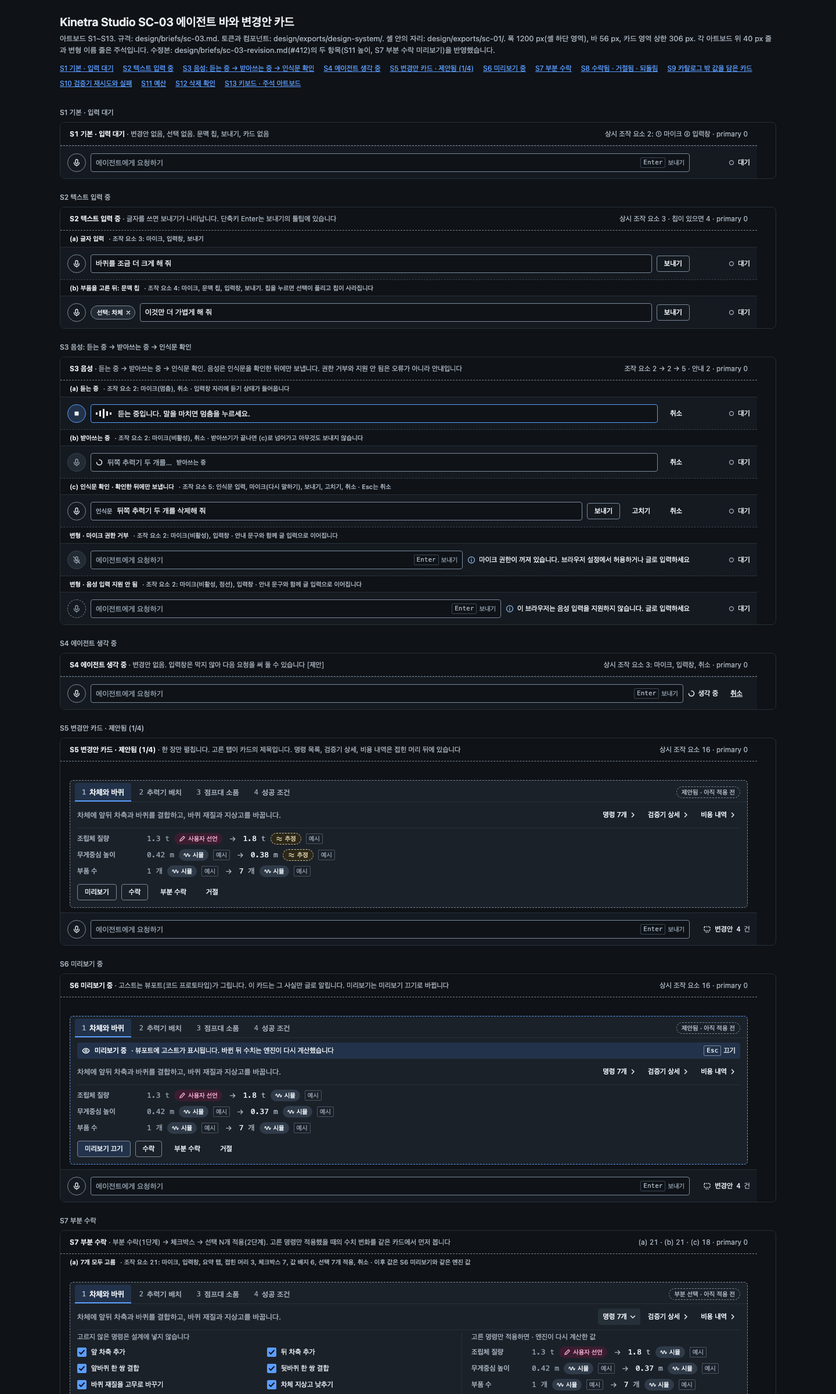
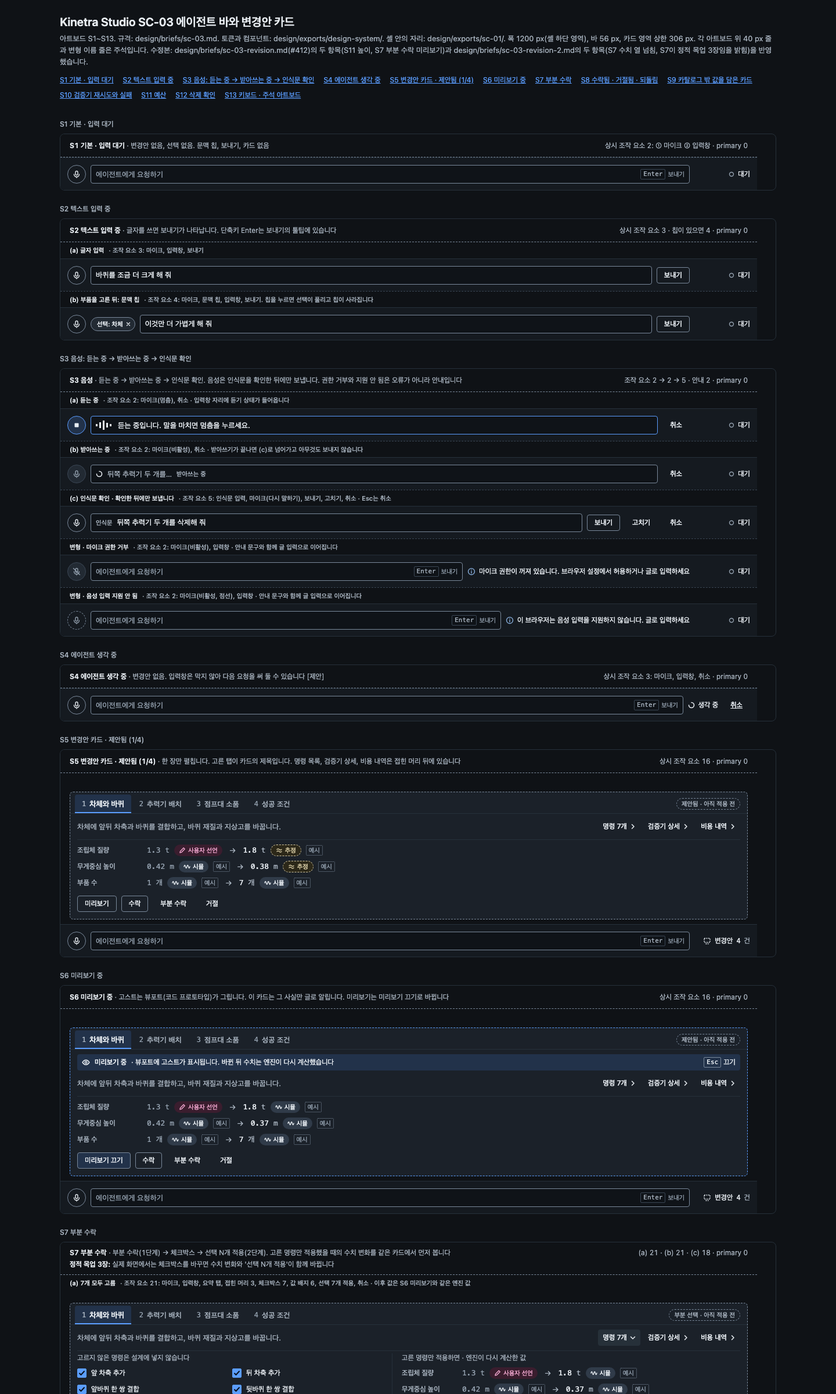
[D0-03c] SC-03 수정 2회 디자인 반영

diff --git a/design/exports/sc-03/index.html b/design/exports/sc-03/index.html
@@ -27,7 +27,7 @@ a{color:#5B9DFF}a:hover{color:#A8CBFF}
 <body>
 <header class="kin-top">
 <h1>Kinetra Studio SC-03 에이전트 바와 변경안 카드</h1>
-<p>아트보드 S1~S13. 규격: design/briefs/sc-03.md. 토큰과 컴포넌트: design/exports/design-system/. 셸 안의 자리: design/exports/sc-01/. 폭 1200 px(셸 하단 영역), 바 56 px, 카드 영역 상한 306 px. 각 아트보드 위 40 px 줄과 변형 이름 줄은 주석입니다. 수정본: design/briefs/sc-03-revision.md(#412)의 두 항목(S11 높이, S7 부분 수락 미리보기)을 반영했습니다.</p>
+<p>아트보드 S1~S13. 규격: design/briefs/sc-03.md. 토큰과 컴포넌트: design/exports/design-system/. 셸 안의 자리: design/exports/sc-01/. 폭 1200 px(셸 하단 영역), 바 56 px, 카드 영역 상한 306 px. 각 아트보드 위 40 px 줄과 변형 이름 줄은 주석입니다. 수정본: design/briefs/sc-03-revision.md(#412)의 두 항목(S11 높이, S7 부분 수락 미리보기)과 design/briefs/sc-03-revision-2.md의 두 항목(S7 수치 열 넘침, S7이 정적 목업 3장임을 밝힘)을 반영했습니다.</p>
 <nav class="kin-nav" aria-label="아트보드 목차"><a href="#main">S1 기본 · 입력 대기</a><a href="#s2">S2 텍스트 입력 중</a><a href="#s3">S3 음성: 듣는 중 → 받아쓰는 중 → 인식문 확인</a><a href="#s4">S4 에이전트 생각 중</a><a href="#s5">S5 변경안 카드 · 제안됨 (1/4)</a><a href="#s6">S6 미리보기 중</a><a href="#s7">S7 부분 수락</a><a href="#s8">S8 수락됨 · 거절됨 · 되돌림</a><a href="#s9">S9 카탈로그 밖 값을 담은 카드</a><a href="#s10">S10 검증기 재시도와 실패</a><a href="#s11">S11 예산</a><a href="#s12">S12 삭제 확인</a><a href="#s13">S13 키보드 · 주석 아트보드</a></nav>
 </header>
 <main><section class="kin-board" id="main" aria-label="S1 기본 · 입력 대기"><h2 class="kin-board-title">S1 기본 · 입력 대기</h2><div class="kin-board-scroll" tabindex="0" role="group" aria-label="S1 기본 · 입력 대기 아트보드"><div data-board="Main.dc.html" style="width:1200px;height:96px;box-sizing:border-box;background:#0F1216;color:#E8EDF2;font-family:Pretendard,'Pretendard Variable',-apple-system,BlinkMacSystemFont,'Apple SD Gothic Neo','Malgun Gothic','Noto Sans KR',sans-serif;font-size:13px;line-height:20px;font-variant-numeric:tabular-nums;display:flex;flex-direction:column">
@@ -324,9 +324,9 @@ a{color:#5B9DFF}a:hover{color:#A8CBFF}
 
 </div>
 
-</div></div></section><section class="kin-board" id="s7" aria-label="S7 부분 수락"><h2 class="kin-board-title">S7 부분 수락</h2><div class="kin-board-scroll" tabindex="0" role="group" aria-label="S7 부분 수락 아트보드"><div data-board="S7.dc.html" style="width:1200px;height:1180px;box-sizing:border-box;background:#0F1216;color:#E8EDF2;font-family:Pretendard,'Pretendard Variable',-apple-system,BlinkMacSystemFont,'Apple SD Gothic Neo','Malgun Gothic','Noto Sans KR',sans-serif;font-size:13px;line-height:20px;font-variant-numeric:tabular-nums;display:flex;flex-direction:column">
+</div></div></section><section class="kin-board" id="s7" aria-label="S7 부분 수락"><h2 class="kin-board-title">S7 부분 수락</h2><div class="kin-board-scroll" tabindex="0" role="group" aria-label="S7 부분 수락 아트보드"><div data-board="S7.dc.html" style="width:1200px;height:1196px;box-sizing:border-box;background:#0F1216;color:#E8EDF2;font-family:Pretendard,'Pretendard Variable',-apple-system,BlinkMacSystemFont,'Apple SD Gothic Neo','Malgun Gothic','Noto Sans KR',sans-serif;font-size:13px;line-height:20px;font-variant-numeric:tabular-nums;display:flex;flex-direction:column">
 
-<div data-note="1" style="flex:none;height:40px;box-sizing:border-box;display:flex;align-items:center;justify-content:space-between;gap:16px;padding:0 16px;border-bottom:1px dashed #7A899B;font-size:12px;line-height:16px;color:#A9B4C0"><span><strong style="color:#E8EDF2;font-weight:600">S7 부분 수락</strong> · 부분 수락(1단계) → 체크박스 → 선택 N개 적용(2단계). 고른 명령만 적용했을 때의 수치 변화를 같은 카드에서 먼저 봅니다</span><span>(a) 21 · (b) 21 · (c) 18 · primary 0</span></div>
+<div data-note="1" style="flex:none;height:56px;box-sizing:border-box;display:flex;flex-direction:column;justify-content:center;gap:4px;padding:0 16px;border-bottom:1px dashed #7A899B;font-size:12px;line-height:16px;color:#A9B4C0"><div style="display:flex;align-items:center;justify-content:space-between;gap:16px"><span><strong style="color:#E8EDF2;font-weight:600">S7 부분 수락</strong> · 부분 수락(1단계) → 체크박스 → 선택 N개 적용(2단계). 고른 명령만 적용했을 때의 수치 변화를 같은 카드에서 먼저 봅니다</span><span>(a) 21 · (b) 21 · (c) 18 · primary 0</span></div><div data-static-note="1"><strong style="color:#E8EDF2;font-weight:600">정적 목업 3장:</strong> 실제 화면에서는 체크박스를 바꾸면 수치 변화와 '선택 N개 적용'이 함께 바뀝니다</div></div>
 
 <div data-note="1" style="flex:none;height:28px;box-sizing:border-box;display:flex;align-items:center;gap:8px;padding:0 16px;font-size:11px;line-height:16px;font-weight:500;color:#A9B4C0"><span style="color:#E8EDF2">(a) 7개 모두 고름</span><span>· 조작 요소 21: 마이크, 입력창, 요약 탭, 접힌 머리 3, 체크박스 7, 값 배지 6, 선택 7개 적용, 취소 · 이후 값은 S6 미리보기와 같은 엔진 값</span></div>
 <div data-screen="S7a" style="position:relative;flex:none;height:352px;display:flex;flex-direction:column">
@@ -364,7 +364,7 @@ a{color:#5B9DFF}a:hover{color:#A8CBFF}
 </div>
 </div>
 
-<div style="display:grid;grid-template-columns:minmax(0,1fr) 480px;gap:0 24px;border-top:1px solid #26303A;padding-top:4px">
+<div style="display:grid;grid-template-columns:minmax(0,1fr) 600px;gap:0 24px;border-top:1px solid #26303A;padding-top:4px">
 <fieldset id="s7a-cmds" style="margin:0;padding:0;border:0;min-width:0">
 <legend style="float:left;width:100%;padding:0;margin:0 0 4px;font-size:12px;line-height:16px;color:#A9B4C0">고르지 않은 명령은 설계에 넣지 않습니다</legend>
 <div style="clear:both;display:grid;grid-template-columns:repeat(2,minmax(0,1fr));gap:0 16px">
@@ -459,7 +459,7 @@ a{color:#5B9DFF}a:hover{color:#A8CBFF}
 </div>
 </div>
 
-<div style="display:grid;grid-template-columns:minmax(0,1fr) 480px;gap:0 24px;border-top:1px solid #26303A;padding-top:4px">
+<div style="display:grid;grid-template-columns:minmax(0,1fr) 600px;gap:0 24px;border-top:1px solid #26303A;padding-top:4px">
 <fieldset id="s7b-cmds" style="margin:0;padding:0;border:0;min-width:0">
 <legend style="float:left;width:100%;padding:0;margin:0 0 4px;font-size:12px;line-height:16px;color:#A9B4C0">고르지 않은 명령은 설계에 넣지 않습니다</legend>
 <div style="clear:both;display:grid;grid-template-columns:repeat(2,minmax(0,1fr));gap:0 16px">
@@ -554,7 +554,7 @@ a{color:#5B9DFF}a:hover{color:#A8CBFF}
 </div>
 </div>
 
-<div style="display:grid;grid-template-columns:minmax(0,1fr) 480px;gap:0 24px;border-top:1px solid #26303A;padding-top:4px">
+<div style="display:grid;grid-template-columns:minmax(0,1fr) 600px;gap:0 24px;border-top:1px solid #26303A;padding-top:4px">
 <fieldset id="s7c-cmds" style="margin:0;padding:0;border:0;min-width:0">
 <legend style="float:left;width:100%;padding:0;margin:0 0 4px;font-size:12px;line-height:16px;color:#A9B4C0">고르지 않은 명령은 설계에 넣지 않습니다</legend>
 <div style="clear:both;display:grid;grid-template-columns:repeat(2,minmax(0,1fr));gap:0 16px">

diff --git a/design/exports/sc-03/source/S7.dc.html b/design/exports/sc-03/source/S7.dc.html
@@ -18,9 +18,9 @@ input::placeholder{color:#93A0AE;opacity:1}
 @media (prefers-reduced-motion:reduce){*{transition-property:opacity!important;animation:none!important}}
 </style>
 </helmet>
-<div style="width:1200px;height:1180px;box-sizing:border-box;background:#0F1216;color:#E8EDF2;font-family:Pretendard,'Pretendard Variable',-apple-system,BlinkMacSystemFont,'Apple SD Gothic Neo','Malgun Gothic','Noto Sans KR',sans-serif;font-size:13px;line-height:20px;font-variant-numeric:tabular-nums;display:flex;flex-direction:column">
+<div style="width:1200px;height:1196px;box-sizing:border-box;background:#0F1216;color:#E8EDF2;font-family:Pretendard,'Pretendard Variable',-apple-system,BlinkMacSystemFont,'Apple SD Gothic Neo','Malgun Gothic','Noto Sans KR',sans-serif;font-size:13px;line-height:20px;font-variant-numeric:tabular-nums;display:flex;flex-direction:column">
 
-<div data-note="1" style="flex:none;height:40px;box-sizing:border-box;display:flex;align-items:center;justify-content:space-between;gap:16px;padding:0 16px;border-bottom:1px dashed #7A899B;font-size:12px;line-height:16px;color:#A9B4C0"><span><strong style="color:#E8EDF2;font-weight:600">S7 부분 수락</strong> · 부분 수락(1단계) → 체크박스 → 선택 N개 적용(2단계). 고른 명령만 적용했을 때의 수치 변화를 같은 카드에서 먼저 봅니다</span><span>(a) 21 · (b) 21 · (c) 18 · primary 0</span></div>
+<div data-note="1" style="flex:none;height:56px;box-sizing:border-box;display:flex;flex-direction:column;justify-content:center;gap:4px;padding:0 16px;border-bottom:1px dashed #7A899B;font-size:12px;line-height:16px;color:#A9B4C0"><div style="display:flex;align-items:center;justify-content:space-between;gap:16px"><span><strong style="color:#E8EDF2;font-weight:600">S7 부분 수락</strong> · 부분 수락(1단계) → 체크박스 → 선택 N개 적용(2단계). 고른 명령만 적용했을 때의 수치 변화를 같은 카드에서 먼저 봅니다</span><span>(a) 21 · (b) 21 · (c) 18 · primary 0</span></div><div data-static-note="1"><strong style="color:#E8EDF2;font-weight:600">정적 목업 3장:</strong> 실제 화면에서는 체크박스를 바꾸면 수치 변화와 '선택 N개 적용'이 함께 바뀝니다</div></div>
 
 <div data-note="1" style="flex:none;height:28px;box-sizing:border-box;display:flex;align-items:center;gap:8px;padding:0 16px;font-size:11px;line-height:16px;font-weight:500;color:#A9B4C0"><span style="color:#E8EDF2">(a) 7개 모두 고름</span><span>· 조작 요소 21: 마이크, 입력창, 요약 탭, 접힌 머리 3, 체크박스 7, 값 배지 6, 선택 7개 적용, 취소 · 이후 값은 S6 미리보기와 같은 엔진 값</span></div>
 <div data-screen="S7a" style="position:relative;flex:none;height:352px;display:flex;flex-direction:column">
@@ -58,7 +58,7 @@ input::placeholder{color:#93A0AE;opacity:1}
 </div>
 </div>
 
-<div style="display:grid;grid-template-columns:minmax(0,1fr) 480px;gap:0 24px;border-top:1px solid #26303A;padding-top:4px">
+<div style="display:grid;grid-template-columns:minmax(0,1fr) 600px;gap:0 24px;border-top:1px solid #26303A;padding-top:4px">
 <fieldset id="s7a-cmds" style="margin:0;padding:0;border:0;min-width:0">
 <legend style="float:left;width:100%;padding:0;margin:0 0 4px;font-size:12px;line-height:16px;color:#A9B4C0">고르지 않은 명령은 설계에 넣지 않습니다</legend>
 <div style="clear:both;display:grid;grid-template-columns:repeat(2,minmax(0,1fr));gap:0 16px">
@@ -153,7 +153,7 @@ input::placeholder{color:#93A0AE;opacity:1}
 </div>
 </div>
 
-<div style="display:grid;grid-template-columns:minmax(0,1fr) 480px;gap:0 24px;border-top:1px solid #26303A;padding-top:4px">
+<div style="display:grid;grid-template-columns:minmax(0,1fr) 600px;gap:0 24px;border-top:1px solid #26303A;padding-top:4px">
 <fieldset id="s7b-cmds" style="margin:0;padding:0;border:0;min-width:0">
 <legend style="float:left;width:100%;padding:0;margin:0 0 4px;font-size:12px;line-height:16px;color:#A9B4C0">고르지 않은 명령은 설계에 넣지 않습니다</legend>
 <div style="clear:both;display:grid;grid-template-columns:repeat(2,minmax(0,1fr));gap:0 16px">
@@ -248,7 +248,7 @@ input::placeholder{color:#93A0AE;opacity:1}
 </div>
 </div>
 
-<div style="display:grid;grid-template-columns:minmax(0,1fr) 480px;gap:0 24px;border-top:1px solid #26303A;padding-top:4px">
+<div style="display:grid;grid-template-columns:minmax(0,1fr) 600px;gap:0 24px;border-top:1px solid #26303A;padding-top:4px">
 <fieldset id="s7c-cmds" style="margin:0;padding:0;border:0;min-width:0">
 <legend style="float:left;width:100%;padding:0;margin:0 0 4px;font-size:12px;line-height:16px;color:#A9B4C0">고르지 않은 명령은 설계에 넣지 않습니다</legend>
 <div style="clear:both;display:grid;grid-template-columns:repeat(2,minmax(0,1fr));gap:0 16px">
@@ -304,7 +304,7 @@ input::placeholder{color:#93A0AE;opacity:1}
 
 </div>
 </x-dc>
-<script type="text/x-dc" data-dc-script data-props='{"$preview":{"width":1200,"height":1180}}'>
+<script type="text/x-dc" data-dc-script data-props='{"$preview":{"width":1200,"height":1196}}'>
 class Component extends DCLogic {
 renderVals() {
 return {};

diff --git a/design/exports/sc-03/source/tools/build_export.py b/design/exports/sc-03/source/tools/build_export.py
@@ -109,12 +109,39 @@ window.addEventListener('load', function () {
         if (!shown(e) || hidden(e)) return; var r = e.getBoundingClientRect();
         if (r.top < sr.top - 0.5 || r.bottom > sr.bottom + 0.5 || r.left < sr.left - 0.5 || r.right > sr.right + 0.5) outside.push((e.getAttribute('aria-label') || e.tagName) + ' ' + Math.round(r.top - sr.top) + '..' + Math.round(r.bottom - sr.top) + ' in 0..' + Math.round(sr.height));
       });
-      return { outside: outside, disabled: [].filter.call(screen.querySelectorAll('[data-ctl][disabled]'), shown).map(function (e) { return e.getAttribute('data-ctl') + ' :: ' + e.textContent.trim(); }), screen: screen.getAttribute('data-screen'), controls: ctl.length, names: ctl.map(function (e) { return e.getAttribute('data-ctl'); }),
+      // sc-03-rev2: anything that leaves its parent's content box sideways or bottom ("칸 밖"), and rows whose content is wider than the row
+      var cellOut = [];
+      screen.querySelectorAll('*').forEach(function (e) {
+        if (!shown(e) || hidden(e) || e.closest('svg') && e.tagName !== 'svg') return;
+        var pa = e.parentElement; if (!pa || pa === screen.parentElement) return;
+        var cs = getComputedStyle(e); if (cs.position === 'absolute' || cs.position === 'fixed') return;
+        var pr = pa.getBoundingClientRect(), ps = getComputedStyle(pa), r = e.getBoundingClientRect();
+        var L = pr.left + parseFloat(ps.borderLeftWidth), R = pr.right - parseFloat(ps.borderRightWidth);
+        if (r.right > R + 0.5 || r.left < L - 0.5) cellOut.push((e.getAttribute('data-ctl') || e.getAttribute('aria-label') || e.textContent || e.tagName).trim().slice(0, 24) + ' ' + Math.round(r.left - L) + '..' + Math.round(r.right - L) + ' in 0..' + Math.round(R - L));
+        if (e.scrollWidth > e.clientWidth + 1 && e.clientWidth > 0 && !/^(svg|INPUT)$/.test(e.tagName)) cellOut.push('scrollW ' + (e.getAttribute('aria-label') || e.tagName) + ' ' + e.scrollWidth + '>' + e.clientWidth);
+      });
+      // sc-03-rev2: S7 value rows ("이전 → 이후 · 단위 · 배지"): space used by the row's items vs the row's width
+      var valueRows = [];
+      screen.querySelectorAll('[aria-label="고른 명령만 적용했을 때 수치 변화"] > div').forEach(function (row) {
+        var items = [].filter.call(row.children, function (c) { return getComputedStyle(c).position !== 'absolute'; });
+        if (items.length < 2) return;
+        var rr = row.getBoundingClientRect(), right = 0, squeezed = 0;
+        items.forEach(function (c) {
+          var r = c.getBoundingClientRect(); if (r.right > right) right = r.right;
+          var rg = document.createRange(); rg.selectNodeContents(c); if (rg.getBoundingClientRect().width > r.width + 0.5) squeezed++;
+        });
+        valueRows.push({ row: items[0].textContent.trim(), width: +rr.width.toFixed(1), used: +(right - rr.left).toFixed(1), spare: +(rr.right - right).toFixed(1), squeezed: squeezed, lines: Math.round(rr.height / 28) });
+      });
+      return { valueRows: valueRows, cellOut: cellOut, outside: outside, disabled: [].filter.call(screen.querySelectorAll('[data-ctl][disabled]'), shown).map(function (e) { return e.getAttribute('data-ctl') + ' :: ' + e.textContent.trim(); }), screen: screen.getAttribute('data-screen'), controls: ctl.length, names: ctl.map(function (e) { return e.getAttribute('data-ctl'); }),
         transient: transient.map(function (e) { return e.getAttribute('data-ctl'); }),
         cardArea: area ? Math.round(area.getBoundingClientRect().height) : null,
         card: area && area.querySelector('section') ? Math.round(area.querySelector('section').getBoundingClientRect().height) : null,
         bar: bar ? Math.round(bar.getBoundingClientRect().height) : null };
     });
+    // sc-03-rev2: note lines (artboard head, state names) must hold their text on the drawn lines
+    var noteOver = [].filter.call(board.querySelectorAll('[data-note], [data-note] *'), function (e) {
+      return shown(e) && (e.scrollWidth > e.clientWidth + 1 || e.scrollHeight > e.clientHeight + 1) && e.clientWidth > 0;
+    }).map(function (e) { return e.textContent.trim().slice(0, 24) + ' ' + e.scrollWidth + 'x' + e.scrollHeight + ' in ' + e.clientWidth + 'x' + e.clientHeight; });
     var stray = [].filter.call(board.querySelectorAll(SEL), function (e) {
       return shown(e) && !hidden(e) && !e.closest('[data-ctl]') && e.getAttribute('tabindex') !== '-1';
     }).map(label);
@@ -160,7 +187,7 @@ window.addEventListener('load', function () {
       name: board.getAttribute('data-board'), size: [Math.round(p.width), Math.round(p.height)],
       childSum: [].reduce.call(board.children, function (s, c) { return s + c.getBoundingClientRect().height; }, 0),
       scrollH: board.scrollHeight,
-      screens: screens,
+      screens: screens, noteOver: noteOver,
       primary: [].filter.call(board.querySelectorAll('[data-primary]'), shown).length,
       stray: stray, small: small, overflow: over, clipped: clip,
       minContrast: +minc.toFixed(2), lowContrast: bad,
@@ -211,7 +238,7 @@ a{{color:#5B9DFF}}a:hover{{color:#A8CBFF}}
 <body>
 <header class="kin-top">
 <h1>Kinetra Studio SC-03 에이전트 바와 변경안 카드</h1>
-<p>아트보드 S1~S13. 규격: design/briefs/sc-03.md. 토큰과 컴포넌트: design/exports/design-system/. 셸 안의 자리: design/exports/sc-01/. 폭 1200 px(셸 하단 영역), 바 56 px, 카드 영역 상한 306 px. 각 아트보드 위 40 px 줄과 변형 이름 줄은 주석입니다. 수정본: design/briefs/sc-03-revision.md(#412)의 두 항목(S11 높이, S7 부분 수락 미리보기)을 반영했습니다.</p>
+<p>아트보드 S1~S13. 규격: design/briefs/sc-03.md. 토큰과 컴포넌트: design/exports/design-system/. 셸 안의 자리: design/exports/sc-01/. 폭 1200 px(셸 하단 영역), 바 56 px, 카드 영역 상한 306 px. 각 아트보드 위 40 px 줄과 변형 이름 줄은 주석입니다. 수정본: design/briefs/sc-03-revision.md(#412)의 두 항목(S11 높이, S7 부분 수락 미리보기)과 design/briefs/sc-03-revision-2.md의 두 항목(S7 수치 열 넘침, S7이 정적 목업 3장임을 밝힘)을 반영했습니다.</p>
 <nav class="kin-nav" aria-label="아트보드 목차">{nav}</nav>
 </header>
 <main>{sections}</main>

diff --git a/design/exports/sc-03/source/tools/read_measure.py b/design/exports/sc-03/source/tools/read_measure.py
@@ -4,10 +4,13 @@ m=re.search(r'<pre id="out">MEASURE(.*?)ENDMEASURE</pre>',d,re.S)
 r=json.loads(html.unescape(m.group(1)))
 json.dump(r,open(sys.argv[2],'w'),ensure_ascii=False,indent=1)
 for b in r:
+    if 'fonts' in b: print('fonts loaded:', b['fonts']); continue
     print('==',b['name'],b['size'],'children',round(b['childSum'],1),'scrollH',b['scrollH'],'primary',b['primary'],'minC',b['minContrast'])
     for s in b['screens']:
         print('   ',s['screen'],s['controls'],s['names'],'T',s['transient'],'area',s['cardArea'],'card',s['card'],'bar',s['bar'])
         if s['outside']: print('      outside',s['outside'])
+        if s.get('cellOut'): print('      cellOut',s['cellOut'])
+        for v in s.get('valueRows', []): print('      valueRow', v)
         if s['disabled']: print('      disabled',s['disabled'])
-    for k in ['stray','small','overflow','clipped','lowContrast','offToken','danger','banned']:
+    for k in ['noteOver','stray','small','overflow','clipped','lowContrast','offToken','danger','banned']:
         if b[k]: print('   ',k,b[k])

diff --git a/design/exports/sc-03/NOTES.md b/design/exports/sc-03/NOTES.md
@@ -1,52 +1,90 @@
-# SC-03 에이전트 바와 변경안 카드 내보내기
+# SC-03 에이전트 바와 변경안 카드 내보내기 (수정 2)
 
-- 실행 ID: `sc03rev-20261111T144401`(수정본). 날짜 2026-11-11. 이전 실행은 `sc03-20261110T223024`(`design/exports/sc-03/`).
-- 수정 지시: `design/briefs/sc-03-revision.md`(#412). 두 항목만 고쳤다(아래 "이번 수정").
+- 실행 ID: `sc03rev2-20261111T170500`. 작업 날짜 2026-11-12. 이전 실행은 `sc03rev-20261111T144401`(`design/exports/sc-03/`, 수정 1), 그 전은 `sc03-20261110T223024`.
+- 수정 지시: `design/briefs/sc-03-revision-2.md`(리뷰 2차, #412). 두 항목만 고쳤다(아래 "이번 수정 2"). 브리프 0절(창업자 지시)과 `design-system.md` 9절 금지 문구는 그대로 적용했다.
 - 규격: `design/briefs/sc-03.md`. 토큰과 컴포넌트: `design/exports/design-system/` (v0). 셸 안의 자리: `design/exports/sc-01/`.
-- Claude Design 캔버스: https://claude.ai/artifact/YcLuwMRPM6uUn9RRHYszLs (제목 "SC-03 에이전트 바와 변경안 카드", 비공개. 다른 사람이 보려면 페이지의 Share 메뉴에서 공유해야 한다). 수정본은 캔버스 버전 17.
+- Claude Design 캔버스: https://claude.ai/artifact/YcLuwMRPM6uUn9RRHYszLs (제목 "SC-03 에이전트 바와 변경안 카드", 비공개. 다른 사람이 보려면 페이지의 Share 메뉴에서 공유해야 한다). 새 캔버스를 만들지 않고 같은 캔버스를 고쳤다. 고친 판은 **버전 19**(`1794454960-b13d`, 라벨 "SC-03 수정 2 #412").
+- 고치기 전에 캔버스 판 `1794454459-fd9e`의 파일 14개(아트보드 13개 + `canvas.json`)가 `design/exports/sc-03/source/`와 바이트 단위로 같은지 확인했다(손으로 고친 곳 없음). 올린 뒤 캔버스에서 다시 읽어 이 폴더의 `source/` 14개와 바이트 단위로 같은지 확인했다.
 - 상태: 창업자 승인 대기. 이 폴더의 치수와 문구는 브리프의 [제안]을 그린 것이다.
 
-## 이번 수정 (#412, `design/briefs/sc-03-revision.md`)
+## 이번 수정 2 (#412, `design/briefs/sc-03-revision-2.md`)
 
-두 가지만 고쳤다. 바뀐 원본은 `S7.dc.html`, `S11.dc.html`, `canvas.json`이고 나머지 아트보드 11개는 `design/exports/sc-03/source/`와 바이트가 같다. 캔버스는 새로 만들지 않고 같은 URL에서 고쳤다(버전 17).
+### 바뀐 원본 파일
+
+| 파일 | 바뀐 것 |
+|---|---|
+| `source/S7.dc.html` | 수치 열 480 → 600 px(세 상태 모두), 머리 줄 40 → 56 px에 "정적 목업 3장" 한 줄, 아트보드 높이 1180 → 1196 px(루트 `div`, `$preview`) |
+| `source/canvas.json` | S7 `h` 1180 → 1196. 위치, 다른 아트보드, 행 제목은 그대로 |
+| `source/tools/build_export.py` | 측정 추가: 칸 밖으로 나간 요소, S7 수치 행의 폭과 남는 폭, 주석 줄 넘침. 갤러리 머리 문단에 수정 2 한 문장 |
+| `source/tools/read_measure.py` | 위 측정 결과를 출력 |
+| `source/tools/measure.sh` | 새 파일. 헤드리스 Chrome 측정을 세 가지 글꼴 조건으로 돌린다(아래 "자기 점검") |
+
+나머지 아트보드 12개(Main, S2~S6, S8~S13)는 `design/exports/sc-03/source/`와 바이트가 같다. `index.html`은 같은 원본에서 다시 만들었다.
+
+### 1. S7 수치 열 넘침
+
+- **고친 것:** 카드 본문 격자를 `minmax(0,1fr) 480px` → `minmax(0,1fr) 600px`로 바꿨다. (a)(b)(c) 세 상태 모두 같다. 오른쪽 수치 열의 글자 폭은 463 → 583 px, 왼쪽 체크박스 열은 638 → 518 px(2열의 한 칸 311 → 251 px)이다. 지시가 제시한 두 방법 중 "오른쪽 열을 넓히기"를 골랐다. 한 행을 두 줄로 나누면 카드 높이(268 px)가 늘고 이전 → 이후를 한 줄에서 읽지 못하게 되기 때문이다.
+- **바꾸지 않은 것:** 행의 읽기 순서(라벨 · 이전 값 · 배지 · `예시` → 이후 값 · 배지 · `예시`)는 한 행 안에 그대로다. 문구, 값, 배지, 체크박스 7개, 버튼, 카드 높이 268 px, 카드 영역 296 px(상한 306 이하)도 그대로다.
+- **잰 값(헤드리스 Chrome).** 수치 행마다 행 폭과 항목이 실제로 차지한 폭을 쟀다. 표의 "남는 폭"은 가장 빡빡한 행인 무게중심 높이 행이다(이전 0.42 m `시뮬` `예시` → 이후 0.37 m `시뮬` `예시`).
+
+| 조건 | 고치기 전 (a)(b) | 고치기 전 (c) | 고친 뒤 (a)(b) | 고친 뒤 (c) |
+|---|---|---|---|---|
+| 시스템 글꼴(설치 글꼴 없음) | 463 중 425.8 사용, 37.2 남음 | 125.0 남음 | 583 중 425.8 사용, **157.2 남음** | 245.0 남음 |
+| 캔버스 글꼴(JetBrains Mono, Pretendard 로드 확인) | 37.4 남음 | 125.4 남음 | **157.4 남음** | 245.4 남음 |
+| 스트레스(모든 글자 간격 +1 px) | 16.2 남음 | 108.0 남음 | **136.2 남음** | 228.0 남음 |
+
+  고친 뒤에는 수치 행의 글자가 지금보다 37% 넓어져야 넘친다. 고치기 전에는 9%였다. 세 조건 모두 칸 밖으로 나간 요소, 카드 밖으로 나간 요소, 상태 영역 밖으로 나간 요소, 폭이 눌려 글자가 상자 밖으로 나간 항목이 0건이다. 체크박스 라벨도 좁아진 열 안에 들어간다(칸 밖 0).
+- **리뷰가 본 넘침은 재현되지 않았다.** 고치기 전 원본도 세 조건 모두에서 행 안에 들어갔다(위 표 왼쪽 두 열). 그래서 리뷰어 환경(캔버스 확대 배율, 다른 OS 글꼴 등)에서 넘쳤을 수 있다. 고친 뒤의 여유(최소 136 px)는 그런 차이를 덮을 만큼 크게 잡았다. **[확인 필요]** 리뷰어 환경에서 다시 봐 달라.
+- **측정이 넘침을 실제로 잡는지 확인:** 같은 측정을 열 폭 340 px짜리 사본에 돌리면 수치 행이 최대 52 px 넘치고 배지와 `예시`가 칸 밖으로 나간 것으로 나온다(이 사본은 내보내지 않았다).
+
+### 2. 정적 목업임을 밝힘
+
+- **아트보드:** S7 머리 줄(아트보드 위 주석 줄)을 두 줄로 했다. 첫 줄은 이전 문구 그대로이고, 둘째 줄이 **"정적 목업 3장: 실제 화면에서는 체크박스를 바꾸면 수치 변화와 '선택 N개 적용'이 함께 바뀝니다"**다. 머리 줄 높이는 40 → 56 px이고 그만큼 아트보드가 16 px 길어졌다. 이 줄은 주석(`data-note`)이라 조작 요소 수, 숫자 배지 점검 대상에 들지 않는다. 머리 줄 글자는 넘치지 않는다(측정).
+- **NOTES:** 아래 "아트보드" 표의 S7 행과 "새로 정한 값" 15번에 같은 사실을 적었다.
+- 상호작용은 새로 만들지 않았다. 체크박스를 눌러도 세 장의 값과 체크 표시는 바뀌지 않는다.
+- **캔버스 배치:** S7 아래쪽 끝이 y 2060 → 2076으로 내려갔다. 3행 제목(y 2180)과 3행 아트보드(y 2480)까지 여유가 남아서 다른 아트보드와 행 제목은 옮기지 않았다.
+
+## 이전 수정 1 (#412, `design/briefs/sc-03-revision.md`, 실행 `sc03rev-20261111T144401`)
+
+`design/exports/sc-03/NOTES.md`의 "이번 수정"을 그대로 옮긴다. 치수는 그때 값이다(S7 높이는 이번 수정 2에서 1196 px이 되었다).
 
 ### 1. S11 높이
 
 - **측정 결과:** 고치기 전 S11의 직속 자식 높이 합은 40 + 28 + 56 + 28 + 104 + 28 + 236 = 520 px로 아트보드 높이 520 px와 같았고, 아트보드 바깥으로 나간 요소는 0건이었다(헤드리스 Chrome, 시스템 글꼴). 리뷰가 말한 "100 px 초과"는 이 측정 환경에서 재현되지 않았다. **[확인 필요]** 리뷰어가 본 환경(캔버스 화면, 설치 글꼴 등)에서 다시 봐 달라.
 - **실제로 넘친 것:** (c) 내역 팝오버(높이 181 px, 바 위 64 px에 고정)가 자기 상태 영역(236 px)보다 9 px 위로 나가 "(c) 내역 열림" 이름 줄을 덮었다. 이전 측정은 아트보드 바깥 경계만 봤기 때문에 이것을 잡지 못했고, 그래서 "넘침 0건"이 실제로는 참이 아니었다.
-- **고친 것:** (c) 상태 영역을 236 → 260 px로 늘려 팝오버 위에 15 px 여유를 두었다. 아트보드 높이 520 → 544 px(`canvas.json`, 루트 `div`, `$preview` 함께). 자식 배치와 문구는 그대로다. S11 말고 높이가 바뀐 아트보드는 2번 지시로 다시 그린 S7뿐이다.
-- **측정 보강:** `build_export.py --measure`가 이제 (1) 아트보드 직속 자식 높이 합과 `scrollHeight`, (2) 상태 영역(`data-screen`)마다 그 영역 밖으로 나간 요소(팝오버 포함), (3) 비활성 조작 요소를 함께 잰다. 고치기 전 S11에 돌리면 `LLM 예산 내역 -9..172 in 0..236`이 나오고, 고친 뒤에는 13장 모두 0건이다.
+- **고친 것:** (c) 상태 영역을 236 → 260 px로 늘려 팝오버 위에 15 px 여유를 두었다. 아트보드 높이 520 → 544 px(`canvas.json`, 루트 `div`, `$preview` 함께). 자식 배치와 문구는 그대로다.
+- **측정 보강:** `build_export.py --measure`가 (1) 아트보드 직속 자식 높이 합과 `scrollHeight`, (2) 상태 영역(`data-screen`)마다 그 영역 밖으로 나간 요소(팝오버 포함), (3) 비활성 조작 요소를 함께 잰다.
 
 ### 2. S7 부분 수락: 적용 전에 수치 변화를 보인다
 
-- **세 장:** S7을 위에서 아래로 세 장 그렸다. (a) 7개 모두 고름 (b) 5개 고름(명령 6 지상고, 7 간격을 뺌) (c) 0개 고름. 세 장 모두 실제 폭 1200 px의 바 + 카드 영역(296 px, 상한 306 이하)이다. 아트보드 1200×392 → 1200×1180. 세 열로 나누면 카드 폭이 셸과 달라져서 세 장을 택했다.
-- **카드 본문:** 왼쪽은 명령 체크박스(2열), 오른쪽은 "고른 명령만 적용하면 · 엔진이 다시 계산한 값" 아래 수치 변화 3행(조립체 질량, 무게중심 높이, 부품 수: 이전 → 이후 · 단위 · 값 배지)이다. 같은 카드 안이고 카드 높이는 이전과 같은 268 px다.
+- **세 장:** S7을 위에서 아래로 세 장 그렸다. (a) 7개 모두 고름 (b) 5개 고름(명령 6 지상고, 7 간격을 뺌) (c) 0개 고름. 세 장 모두 실제 폭 1200 px의 바 + 카드 영역(296 px, 상한 306 이하)이다. 세 열로 나누면 카드 폭이 셸과 달라져서 세 장을 택했다.
+- **카드 본문:** 왼쪽은 명령 체크박스(2열), 오른쪽은 "고른 명령만 적용하면 · 엔진이 다시 계산한 값" 아래 수치 변화 3행(조립체 질량, 무게중심 높이, 부품 수: 이전 → 이후 · 단위 · 값 배지)이다. 같은 카드 안이고 카드 높이는 268 px다.
 - **값과 배지 [제안]:** 이전 값은 S5·S6과 같다(1.3 t `사용자 선언`, 0.42 m `시뮬` `예시`, 1 개 `시뮬` `예시`). 이후 값은 고른 명령만으로 엔진이 다시 계산한 값이라 `시뮬`이고, 지어낸 수치이므로 `예시`를 붙였다.
   - (a) 7개: 1.8 t, 0.37 m, 7 개. S6 미리보기(7개 전부, 엔진 값)와 같은 값이다.
-  - (b) 5개: 1.7 t, 0.41 m, 7 개. 지상고를 낮추지 않아 무게중심이 덜 내려가고, 간격을 넓히지 않아 차축이 짧아 질량이 덜 는다. 7개 전부일 때와 질량·무게중심이 다르다는 것을 (b) 이름 줄(주석)에도 적었다.
+  - (b) 5개: 1.7 t, 0.41 m, 7 개. 지상고를 낮추지 않아 무게중심이 덜 내려가고, 간격을 넓히지 않아 차축이 짧아 질량이 덜 는다.
   - (c) 0개: 이전 값과 배지만 두고 이후 자리에 "바뀌지 않음". 머리글은 "고른 명령이 없어 지금 값이 그대로입니다".
 - **적용 버튼:** "선택 7개 적용", "선택 5개 적용"(secondary), "선택 0개 적용"(`disabled`, 점선 테두리). 0개일 때 버튼 옆에 `status.info` 아이콘과 "적용할 명령을 고르세요"를 보이고 `aria-describedby`로 버튼에 잇는다. 개수 없는 일반 `적용` 버튼은 13장 어디에도 없다.
-- **개수는 한 곳에서만:** 이전의 "5개 적용" 요약 글을 지우고 개수는 버튼 라벨에만 둔다. 체크박스 목록 머리의 "적용할 명령을 고르세요."는 0개 상태의 이유 글과 겹쳐서 지우고 "고르지 않은 명령은 설계에 넣지 않습니다"만 남겼다. 오른쪽 아래의 "수치 변화는 … 적용하기 전에 보여 줍니다" 글은 이제 수치 변화가 실제로 보이므로 지웠다.
-- **스크린리더:** 수치 변화 묶음은 `aria-live="polite"`라 고른 명령을 바꾸면 새 값을 읽는다.
-- **조작 요소:** (a) 21 · (b) 21 · (c) 18. 이전 15에서 값 배지 6개(c는 이전 값 배지 3개)가 늘었다. 카드 안 `primary` 0. 배지를 누를 수 없는 글자로 바꾸면 15개로 줄지만 S5·S6과 배지 동작이 달라져 그대로 두었다. "화면은 단순하게" 관점에서 **창업자가 봐 달라.**
-- **index.html:** 같은 원본에서 다시 만들었으므로 S7의 세 상태가 그대로 들어간다.
-- **캔버스 배치:** S7이 길어져 3·4행(S9~S13)과 행 제목을 아래로 옮겼다(3행 y 1700 → 2480, 4행 y 2660 → 3444). 이 아트보드들의 크기와 내용은 바꾸지 않았다.
+- **개수는 한 곳에서만:** 개수는 버튼 라벨에만 둔다. 체크박스 목록 머리는 "고르지 않은 명령은 설계에 넣지 않습니다"다.
+- **스크린리더:** 수치 변화 묶음은 `aria-live="polite"`라 실제 화면에서 고른 명령을 바꾸면 새 값을 읽는다.
+- **조작 요소:** (a) 21 · (b) 21 · (c) 18. 카드 안 `primary` 0. 배지를 누를 수 없는 글자로 바꾸면 15개로 줄지만 S5·S6과 배지 동작이 달라져 그대로 두었다. "화면은 단순하게" 관점에서 **창업자가 봐 달라.**
+- **캔버스 배치:** S7이 길어져 3·4행(S9~S13)과 행 제목을 아래로 옮겼다(3행 y 1700 → 2480, 4행 y 2660 → 3444).
 
 ## 파일
 
 | 경로 | 내용 |
 |---|---|
-| `index.html` | 독립 갤러리 한 파일(213,353바이트). 아트보드 13장을 이어 붙였다. 외부 요청이 없다(`http`, `<link>`, `<script>`, `url(` 0건). 글꼴 파일은 없고 Pretendard, JetBrains Mono는 설치돼 있을 때만 쓰인다 |
-| `source/*.dc.html` | 캔버스 아트보드 원본 13개. 캔버스에 올린 파일과 바이트가 같다 |
-| `source/canvas.json` | 아트보드 위치, 크기, 제목, 순서 |
-| `source/tools/build_export.py` | 내보내기 스크립트(SC-01 것을 고쳐 씀). `python3 source/tools/build_export.py source .` → `index.html`. `--measure`는 자기 점검 수치를 내는 `measure.html`, `--board NAME`은 아트보드 한 장짜리 페이지를 만든다. SC-01과 다른 점: 한 아트보드에 상태 변형 여러 개(`data-screen`)를 세고, 색을 `tokens.json` 값과 대조하고, `status.danger` 쓰임, 금지 문구, 카드 영역 높이를 함께 잰다. 수정본에서 아트보드 자식 높이 합, 상태 영역 밖으로 나간 요소, 비활성 조작 요소를 더했다 |
+| `index.html` | 독립 갤러리 한 파일(213,766바이트). 아트보드 13장을 이어 붙였다. 외부 요청이 없다(`http`, `<link>`, `<script>`, `url(` 0건). 글꼴 파일은 없고 Pretendard, JetBrains Mono는 설치돼 있을 때만 쓰인다 |
+| `source/*.dc.html` | 캔버스 아트보드 원본 13개. 캔버스 버전 19의 파일과 바이트가 같다 |
+| `source/canvas.json` | 아트보드 위치, 크기, 제목, 순서. 캔버스 버전 19의 파일과 바이트가 같다 |
+| `source/tools/build_export.py` | 내보내기 스크립트(SC-01 것을 고쳐 씀). `python3 source/tools/build_export.py source .` → `index.html`. `--measure`는 자기 점검 수치를 내는 `measure.html`, `--board NAME`은 아트보드 한 장짜리 페이지를 만든다. 한 아트보드의 상태 변형(`data-screen`)을 따로 세고, 색을 `tokens.json` 값과 대조하고, `status.danger` 쓰임, 금지 문구, 카드 영역 높이, 아트보드 자식 높이 합, 상태 영역 밖으로 나간 요소, 비활성 조작 요소를 잰다. 수정 2에서 칸 밖으로 나간 요소, S7 수치 행의 폭, 주석 줄 넘침을 더했다 |
+| `source/tools/measure.sh` | 수정 2에서 새로 넣었다. `measure.sh <source> <출력 폴더> [plain|webfonts|stress]`. 헤드리스 Chrome만 쓰고 `/tmp` 아래 임시 `--user-data-dir`을 만든 뒤 끝나면 지운다. `webfonts`는 `FONT_CSS`(디스크에 받아 둔 JetBrains Mono, Pretendard의 `@font-face`)를 측정 페이지에만 넣는다 |
 | `source/tools/read_measure.py` | 헤드리스 Chrome이 덤프한 DOM에서 측정 결과를 꺼내 요약한다 |
 | `NOTES.md` | 이 파일 |
 | `DONE.json` | 완료 표시. 마지막에 썼다 |
 
 ## 아트보드
 
-폭은 모두 1200 px(셸 하단 영역)이다. 위 40 px은 이름과 상시 조작 요소 수를 적은 주석 줄이다. 변형이 여러 개인 아트보드는 변형마다 28 px 이름 줄(주석)을 둔다. 앱 화면 부분은 에이전트 바 56 px + 카드 영역(상한 306 px)이다.
+폭은 모두 1200 px(셸 하단 영역)이다. 위 40 px은 이름과 상시 조작 요소 수를 적은 주석 줄이다(S7만 두 줄 56 px). 변형이 여러 개인 아트보드는 변형마다 28 px 이름 줄(주석)을 둔다. 앱 화면 부분은 에이전트 바 56 px + 카드 영역(상한 306 px)이다.
 
 | 파일 | ID | 상태 | 크기 |
 |---|---|---|---|
@@ -56,7 +94,7 @@
 | `S4.dc.html` | S4 | 에이전트 생각 중 | 1200×96 |
 | `S5.dc.html` | S5 | 변경안 카드 · 제안됨 (1/4) | 1200×356 |
 | `S6.dc.html` | S6 | 미리보기 중 | 1200×392 |
-| `S7.dc.html` | S7 | 부분 수락: (a) 7개 고름 (b) 5개 고름 (c) 0개 고름 | 1200×1180 |
+| `S7.dc.html` | S7 | 부분 수락: (a) 7개 고름 (b) 5개 고름 (c) 0개 고름. **정적 목업 세 장이다.** 체크박스를 눌러도 값과 체크 표시가 바뀌지 않는다. 실제 화면에서는 체크박스를 바꾸면 수치 변화와 '선택 N개 적용'이 함께 바뀐다. 이 사실은 아트보드 머리 줄 둘째 줄에도 적었다 | 1200×1196 |
 | `S8.dc.html` | S8 | 수락됨 + 거절됨, 되돌림(취소됨) 변형 | 1200×392 |
 | `S9.dc.html` | S9 | 카탈로그 밖 값을 담은 카드(2번 추력기 배치) | 1200×392 |
 | `S10.dc.html` | S10 | (a) 검증기 재시도 중 (b) 정해진 횟수를 넘겨 실패 | 1200×368 |
@@ -66,20 +104,35 @@
 
 ## 자기 점검
 
-수치는 `measure.html`을 헤드리스 Chrome으로 열어 잰 것이다. 임시 `--user-data-dir`은 `/tmp/kin-sc03rev-chrome.*`이고 실행마다 끝나고 지웠다(남은 폴더 0개 확인). 사용자 Chrome 프로필과 실행 중인 Chrome은 건드리지 않았다. 마지막 측정은 이 폴더의 `source/`에서 다시 만든 페이지로 했다. 세는 대상에는 `data-ctl`, 주 행동에는 `data-primary`를 붙였고, 표시가 없는 버튼·입력·탭 정지가 남아 있지 않은지도 같이 확인했다(0건). 측정 환경에는 Pretendard와 JetBrains Mono가 설치돼 있지 않아 시스템 글꼴로 쟀다.
+수치는 이 폴더의 `source/`에서 다시 만든 `measure.html`을 헤드리스 Chrome(156.0.8078.80)으로 열어 잰 것이다. 조건은 셋이다.
+
+- **시스템 글꼴:** 측정 환경에 Pretendard, JetBrains Mono가 설치돼 있지 않아 시스템 글꼴로 그려진다(`index.html`을 이 환경에서 열었을 때와 같다).
+- **캔버스 글꼴:** JetBrains Mono(캔버스가 Google Fonts에서 부르는 글꼴)와 Pretendard(모든 아트보드가 맨 앞에 지정한 글꼴)를 디스크에 받아 측정 페이지에만 넣었다. 400·500·600 굵기 모두 로드된 것을 `document.fonts`로 확인했다. 받은 글꼴 파일은 측정용 임시 폴더에만 있고 이 내보내기에는 없다.
+- **스트레스:** 시스템 글꼴 + 모든 글자 간격 +1 px. 더 넓은 글꼴을 흉내 낸 것이다.
+
+임시 `--user-data-dir`은 `/tmp/kin-sc03rev2-chrome.*`이고 실행마다 끝나고 지웠다(남은 폴더 0개 확인). 사용자 Chrome 프로필과 실행 중인 Chrome은 건드리지 않았다. 세는 대상에는 `data-ctl`, 주 행동에는 `data-primary`를 붙였고, 표시가 없는 버튼·입력·탭 정지가 남아 있지 않은지도 같이 확인했다(0건). 아래 수치는 세 조건에서 같다(다른 것은 S7 수치 행의 폭뿐이고 위 "이번 수정 2" 표에 있다).
 
 ### 브리프 0절 표
 
 | 점검 | 결과 |
 |---|---|
-| 상시 조작 요소 수 | 아래 표. S1은 2이고 이름은 5.1절 그대로 ① 마이크 ② 입력창이다 |
-| `primary` 버튼 수 | 13장 모두 0(카드, 에이전트 바, 대화상자, 팝오버 안). 상단바를 그린 아트보드는 없다. 그래서 "상단바가 있으면 정확히 1" 조건은 이 화면에 해당하는 아트보드가 없다 |
+| 상시 조작 요소 수 | 아래 표. **S1은 2이고 이름은 5.1절 그대로 ① 마이크 ② 입력창이다**(수정 2에서 다시 잼) |
+| `primary` 버튼 수 | **13장 모두 0**(카드, 에이전트 바, 대화상자, 팝오버 안. 수정 2에서 다시 잼). 상단바를 그린 아트보드는 없다. 그래서 "상단바가 있으면 정확히 1" 조건은 이 화면에 해당하는 아트보드가 없다 |
 | 기능 도달 단계 | 3절 16행 모두 0·1·2단계 안이다. 2 초과 없음. 아래 표 |
-| 상태 | 5절 S1~S13 전부 그렸다. 변경안 카드 4행동은 S5·S9(미리보기, 수락, 부분 수락, 거절), S6(미리보기 끄기 + 나머지 셋), 되돌리기는 S8. 부분 수락의 7개·5개·0개 상태는 S7 (a)(b)(c) |
-| 정직성 | 설계 수치(질량, 무게중심 높이, 부품 수, 추력, 겹침, 예산 한도)는 모두 값·단위·값 배지가 있다. 표 10의 값(차체 1.3 t `사용자 선언`, 카탈로그 최대 8.9 N `인용`, 노즐당 8 kN `카탈로그 밖 · 사용자 선언`) 밖의 수치에는 모두 `예시`를 붙였다. 배지를 붙이지 않은 수는 아래 "배지 없이 둔 수"에 따로 적었다. 에이전트가 판정을 선언하는 문구 0건. 금지 문구(현실과 동일, 실제와 똑같, 검증됨, 보장, 판정했습니다, 성공 확인, 통과) 0건 |
-| 금지 | 쓴 색 25개 + 그림자·스크림 2개가 모두 `tokens.json`에 있다(새 색 0). 초록 없음. `status.danger`는 S10 (b) 실패의 오류 아이콘과 S12 삭제 확인의 아이콘·`삭제` 버튼에만 쓴다. 검증기 재시도(S10 a)는 `danger`를 쓰지 않는다 |
+| 상태 | 5절 S1~S13 전부 그렸다. 변경안 카드 4행동은 S5·S9(미리보기, 수락, 부분 수락, 거절), S6(미리보기 끄기 + 나머지 셋), 되돌리기는 S8. 부분 수락의 7개·5개·0개 상태는 S7 (a)(b)(c)이고 정적 목업 세 장이다 |
+| 정직성 | 설계 수치(질량, 무게중심 높이, 부품 수, 추력, 겹침, 예산 한도)는 모두 값·단위·값 배지가 있다. 표 10의 값(차체 1.3 t `사용자 선언`, 카탈로그 최대 8.9 N `인용`, 노즐당 8 kN `카탈로그 밖 · 사용자 선언`) 밖의 수치에는 모두 `예시`를 붙였다. 배지를 붙이지 않은 수는 아래 "배지 없이 둔 수"에 따로 적었다. 에이전트가 판정을 선언하는 문구 0건. 금지 문구(현실과 동일, 실제와 똑같, 검증됨, 보장, 판정했습니다, 가능하다고 판정, 성공 확인, 통과) 0건 |
+| 금지 | **새 색 0**(수정 2에서 다시 잼): 쓴 색 25개 + 그림자·스크림 2개가 모두 `tokens.json`에 있다. 초록 없음. `status.danger`는 S10 (b) 실패의 오류 아이콘과 S12 삭제 확인의 아이콘·`삭제` 버튼에만 쓴다. 검증기 재시도(S10 a)는 `danger`를 쓰지 않는다 |
 
-그 밖에 잰 것: 아트보드 밖으로 넘치거나 잘린 요소 0건. 상태 영역(`data-screen`) 밖으로 나간 요소 0건(수정본에서 더한 점검). 13장 모두 직속 자식 높이 합 = 아트보드 높이 = `scrollHeight`(S11은 544). 누르는 영역 24×24 px 미만 0건(체크박스는 라벨까지 누르는 영역으로 쟀다). 글자 대비 최저 5.76:1(S12 대화상자의 `삭제` 글자 `#FF7B72` on `#222A33`), 4.5:1 미만 0건. 에이전트 바 높이 56 px. 카드 영역 높이와 카드 높이: S5 260/220, S6 296/256, S7 (a)(b)(c) 296/268, S9 296/256, S8 112/83, 모두 상한 306 이하.
+그 밖에 잰 것(세 조건 모두):
+
+- 아트보드 밖으로 넘치거나 잘린 요소 0건.
+- 상태 영역(`data-screen`) 밖으로 나간 요소 0건.
+- 칸 밖으로 나간 요소 0건. 수정 2에서 더한 점검으로, 부모 상자 밖으로 나가거나 내용이 상자보다 넓은 요소를 13장 모든 상태 영역에서 찾는다.
+- 주석 줄(머리 줄, 변형 이름 줄) 넘침 0건. S7 머리 줄 두 줄 포함.
+- 13장 모두 직속 자식 높이 합 = 아트보드 높이 = `scrollHeight`(S7은 1196, S11은 544).
+- 누르는 영역 24×24 px 미만 0건(체크박스는 라벨까지 누르는 영역으로 쟀다).
+- 글자 대비 최저 5.76:1(S12 대화상자의 `삭제` 글자 `#FF7B72` on `#222A33`), 4.5:1 미만 0건.
+- 에이전트 바 높이 56 px. 카드 영역 높이와 카드 높이: S5 260/220, S6 296/256, S7 (a)(b)(c) 296/268, S9 296/256, S8 112/83, 모두 상한 306 이하.
 
 ### 상시 조작 요소 수
 
@@ -95,7 +148,7 @@
 | S4 | 3 | 마이크, 입력창, 취소 |
 | S5 | 16 | 마이크, 입력창, 요약 탭(탭 목록 1), 접힌 머리 3, 값 배지 6, 행동 4 |
 | S6 | 16 | S5와 같고 `미리보기`가 `미리보기 끄기`로 바뀜 |
-| S7 (a) / (b) / (c) | 21 / 21 / 18 | 마이크, 입력창, 요약 탭, 접힌 머리 3, 명령 체크박스 7, 값 배지 6((c)는 이전 값 배지 3), 선택 N개 적용, 취소. (c)의 적용은 비활성이고 비활성도 셌다 |
+| S7 (a) / (b) / (c) | 21 / 21 / 18 | 마이크, 입력창, 요약 탭, 접힌 머리 3, 명령 체크박스 7, 값 배지 6((c)는 이전 값 배지 3), 선택 N개 적용, 취소. (c)의 적용은 비활성이고 비활성도 셌다. 수정 2에서 바뀌지 않았다 |
 | S8 | 4 | 마이크, 입력창, 요약 탭, 되돌리기. 변형: 거절됨 0, 되돌림 1(변경안 다시 열기) |
 | S9 | 16 | S5와 같은 구성(값 배지 6 중 2개가 추력 행) |
 | S10 (a) / (b) | 4 / 4 | 마이크, 입력창, 값 배지, 취소 / 마이크, 입력창, 복사, 다시 요청 |
@@ -148,7 +201,7 @@
 
 1. **고른 탭이 카드의 제목이다.** 0절 5번(한 카드에 제목 하나)과 6절(접힌 탭은 제목만)을 함께 지키려고 카드 안에 따로 제목을 두지 않았다. 탭 패널은 고른 탭으로 이름이 붙는다(`aria-labelledby`). 변경안이 1건이어도 탭 하나를 둔다(S12 바탕).
 2. **수치 변화의 이전 값에도 배지를 붙였다.** 디자인 시스템 `ChangeCard`는 이후 값에만 배지를 붙이고 이전 값은 흐리게 둔다. "배지 없는 수치 0건"을 지키려고 둘 다 붙였다. 그래서 카드의 값 배지가 6개다.
-3. **이후 값의 배지 [제안]:** 제안 단계(S5, S9)의 이후 값은 에이전트가 어림한 `추정`이고, 미리보기(S6)에서는 엔진이 다시 계산해 `시뮬`로 바뀐다. 미리보기 알림 줄에 "바뀐 뒤 수치는 엔진이 다시 계산했습니다"를 적었다. 부품 수는 명령에서 바로 나오므로 처음부터 `시뮬`이다. 부분 수락(S7)의 이후 값도 고른 명령만으로 엔진이 다시 계산하므로 `시뮬`이다(수정본).
+3. **이후 값의 배지 [제안]:** 제안 단계(S5, S9)의 이후 값은 에이전트가 어림한 `추정`이고, 미리보기(S6)에서는 엔진이 다시 계산해 `시뮬`로 바뀐다. 미리보기 알림 줄에 "바뀐 뒤 수치는 엔진이 다시 계산했습니다"를 적었다. 부품 수는 명령에서 바로 나오므로 처음부터 `시뮬`이다. 부분 수락(S7)의 이후 값도 고른 명령만으로 엔진이 다시 계산하므로 `시뮬`이다.
 4. **S9 추력 행은 화살표 대신 "카탈로그 최대 8.9 N `인용` · 제안 8 kN `카탈로그 밖 · 사용자 선언`"** 으로 썼다. 추력기가 이 카드에서 처음 생기므로 "이전 값"이 없기 때문이다. 카탈로그 밖 행은 맨 위에 두고, 접지 않는 안내 한 줄("카탈로그에 없는 추력 값입니다. 수락하면 이 값은 사용자가 선언한 값이 되고, 판정은 그 선언만큼만 맞습니다.")을 붙였다.
 5. **탭 순서는 5절 S13대로 입력창 → 마이크 → 칩이다.** 화면에서는 마이크가 맨 왼쪽이라 DOM 순서(입력창 먼저)와 CSS `order`로 맞췄다. 이 때문에 문맥 칩은 디자인 시스템처럼 입력창 테두리 안이 아니라 마이크와 입력창 사이(입력창 앞)에 둔다. SC-01 S10은 마이크 13 → 입력창 14였으므로 셸의 순서와 다르다. **확인이 필요하다.**
 6. **브리프가 이름을 대지 않은 탭 정지**(접힌 머리 3개, 값 배지 6개)는 읽는 순서대로 요약 탭과 카드 행동 사이에 넣었다(S13의 5~13번). 브리프의 상대 순서(입력창 → 마이크 → 칩 → 요약 탭 → 카드 행동)는 그대로다.
@@ -160,9 +213,10 @@
 12. **실패(S10 b)** 의 오류 코드는 디자인 시스템처럼 `[오류 코드]` 자리 글자다. 다음 행동은 `다시 요청`.
 13. **예산(S11):** 단위는 토큰으로 그렸다 [확인 필요: G-01]. 브리프가 "누르면 내역"이라고만 해서 (c) 내역 팝오버를 더 그렸다(사용, 한도, 요청 수). 예산 초과 띠는 `status.warning` 테두리와 아이콘이고, 그때 에이전트 상태는 "대기"다.
 14. **S4에서 생각 중에 Enter를 누르면** 요청을 줄 세울지 막을지는 정하지 않았다. 입력창만 막지 않았다.
-15. **S7 체크박스**는 토큰 색만 쓰려고 브라우저 기본 모양을 끄고 그렸다(`appearance:none`, 체크 표시는 겹친 SVG). 정적 그림이라 캔버스에서 눌러도 체크 표시가 바뀌지 않는다.
+15. **S7은 정적 목업 세 장이다.** 체크박스는 토큰 색만 쓰려고 브라우저 기본 모양을 끄고 그렸다(`appearance:none`, 체크 표시는 겹친 SVG). 세 장 모두 정적 그림이라 캔버스에서 체크박스를 눌러도 체크 표시, 수치 변화, `선택 N개 적용` 라벨이 바뀌지 않는다. 실제 화면에서는 체크박스를 바꾸면 수치 변화와 '선택 N개 적용'이 함께 바뀐다. 이 사실을 S7 머리 줄 둘째 줄에 적었다(수정 2). 상호작용은 만들지 않았다.
 16. **S8의 거절됨, 되돌림 변형**은 카드 줄만 그렸다. 바와 탭은 S8 위쪽과 같다.
 17. **S12 대화상자:** 제목 "부품을 삭제할까요?", 대상 이름 목록, `삭제`(danger 변형) `취소`. 처음 포커스는 `취소`라고 적었다(갤러리에서 포커스를 빼앗지 않도록 `autofocus`는 넣지 않았다). 바탕은 `inert`와 `elevation.scrim`.
 18. **그리지 않은 것:** 접힌 머리를 연 모습(읽기 전용 명령 목록, 검증기 상세, 비용 내역), 값 배지의 근거 팝오버, 306 px 상한에 닿아 카드 본문이 스크롤되는 모습, hover 상태, 3D 고스트(브리프 범위 밖), 셸 전체(1440×900) 안의 배치. 셸 안의 자리는 SC-01 보충 B를 따른다.
 19. **디자인 시스템 연결:** 이 계정에 Design System 유형 산출물이 없어 캔버스에 디자인 시스템 기록을 달지 못했다. 색과 치수는 디자인 시스템 원본, SC-01과 같은 방식(토큰 값을 글자 그대로)으로 썼다. 캔버스의 아트보드는 JetBrains Mono를 Google Fonts에서 부르지만 `index.html`은 부르지 않는다.
-20. **수정본(#412)에서 새로 정한 것**은 위 "이번 수정"에 적었다: S7 세 장 배치, 5개 고름의 값(1.7 t, 0.41 m, `예시`), 목록 머리 문구, 0개일 때 "바뀌지 않음" 표기, S11 (c) 영역 260 px, 캔버스 3·4행 위치.
+20. **수정 1(#412)에서 새로 정한 것**은 위 "이전 수정 1"에 적었다. S7 세 장 배치, 5개 고름의 값(1.7 t, 0.41 m, `예시`), 목록 머리 문구, 0개일 때 "바뀌지 않음" 표기, S11 (c) 영역 260 px, 캔버스 3·4행 위치다.
+21. **수정 2(#412)에서 새로 정한 것:** S7 수치 열 600 px(체크박스 열 518 px). S7 머리 줄만 두 줄 56 px이고 다른 아트보드의 머리 줄은 40 px 한 줄 그대로다. S7은 1196 px이다.

diff --git a/design/exports/sc-03/README.md b/design/exports/sc-03/README.md
@@ -7,7 +7,7 @@
 - 규격(브리프): `design/briefs/sc-03.md`. 0절 창업자 지시(기능은 빠짐없이, 화면은 단순하게, 진행형 공개)가 첫 조건이다. 토큰과 컴포넌트는 `design/exports/design-system/`(v0), 셸 안의 자리는 `design/exports/sc-01/`(승인, 하단 에이전트 바 56 px, 카드 영역은 바 위로 올라오며 최대 306 px)을 그대로 쓴다.
 - **Claude Design 산출물 URL:** https://claude.ai/artifact/YcLuwMRPM6uUn9RRHYszLs (제목 "SC-03 에이전트 바와 변경안 카드", 비공개). 로그의 `…QKN21…`은 Artifact 유형 안내(디자인 아님) [추정].
 - 만든 방법: omp가 `docs/decisions/design-pty.md` 절차대로 expect로 `claude --model opus`(상태 막대 **Opus 5.5**, Claude Code 2.1.322, 창업자 결정)를 신뢰 폴더 `/tmp/kin-design-probe`에서 띄웠다. `/design`만 먼저 입력해 자동완성을 확인한 뒤 브리프 경로를 가리키는 짧은 지시를 보냈다. `Artifact(` 호출이 3분 안에 나왔다. 실행 id `sc03-20261110T223024`, `DONE.json` 실행 id 일치로 1728초(약 29분) 뒤 완료(고정 제한 없음).
-- `NOTES.md`와 `DONE.json`은 Claude Design 세션이 쓴 그대로이고 omp가 고치지 않았다. 이 폴더는 **수정 실행(아래 "수정 1회")의 결과**로 첫 시안을 대체한 것이다(첫 시안은 git 이력).
+- `NOTES.md`와 `DONE.json`은 Claude Design 세션이 쓴 그대로이고 omp가 고치지 않았다. 이 산출물은 **수정 실행(아래 "수정 2회")의 결과**로 첫 시안을 대체한 것이다(첫 시안과 수정 1회는 git 이력).
 
 ## 편차 (창업자가 수용할지 정한다)
 
@@ -29,6 +29,15 @@
 
 수정 뒤 S1 조작 요소 2개 유지, 카드 안 `primary` 0, 새 색 0. S7 조작 요소는 (a) 21 · (b) 21 · (c) 18로 이전 15보다 늘었다(값 배지 6개가 눌리는 배지). `NOTES.md`가 "화면은 단순하게" 관점의 확인을 요청했다: 배지를 읽기 전용 글자로 바꾸면 15개로 줄지만 S5·S6과 배지 동작이 달라진다.
 
+## 수정 2회 (리뷰 반영, #412 코멘트)
+
+수정 지시: `design/briefs/sc-03-revision-2.md`. 같은 artifact(https://claude.ai/artifact/YcLuwMRPM6uUn9RRHYszLs, 버전 19)를 Claude Design(Opus 5.5)으로 이어서 고쳤다. 실행 id `sc03rev2-20261111T170500`, `DONE.json`의 실행 id가 일치한다.
+
+1. S7 (a)(b)(c)의 값 열을 480→600 px로 넓히고 체크박스 열을 638→518 px로 조정했다. `DONE.json`은 시스템 글꼴·웹 글꼴·자간 스트레스 측정에서 값 행, 셀, 카드, 상태 영역의 넘침이 0이라고 기록했다. 리뷰어가 보고한 넘침은 수정 전 측정에서도 재현되지 않았다.
+2. S7 머리 줄에 세 장이 정적 목업이며 실제 화면에서는 체크박스 선택에 따라 수치 변화와 "선택 N개 적용"이 함께 바뀐다는 설명을 추가했다. 상호작용을 구현한 것은 아니다.
+
+`DONE.json` 기준 S1 조작 요소 2개, 카드·바 안 `primary` 0, 새 색 0, 최소 텍스트 대비 5.76, 아트보드 넘침 0이다. 측정은 임시 `--user-data-dir`를 쓴 헤드리스 Chrome에서 했고 프로필은 삭제했다.
+
 ## 비용과 한도 (상태 막대에서 읽은 값)
 
 | 시점 | 세션 비용 | 주간 한도 |
@@ -43,7 +52,7 @@
 
 | 경로 | 내용 |
 |---|---|
-| `index.html` | 독립 갤러리(213353바이트, 수정 후). 아트보드 13장(S1~S13) |
+| `index.html` | 독립 갤러리(213766바이트, 수정 2회). 아트보드 13장(S1~S13) |
 | `source/*.dc.html`, `source/canvas.json`, `source/tools/` | 캔버스 아트보드 원본 13개, 배치 정보, 내보내기·측정 스크립트 |
 | `NOTES.md`, `DONE.json` | Claude Design 세션이 쓴 노트(자기 점검 표, 기능 단계 표, 변경안 카드 4행동 위치, 브리프 밖 결정)와 완료 표식 |
 | `preview.png` | omp가 찍은 스크린샷(1440×2400, 수정 후). 맨 위 약 2400px만 보인다 |
